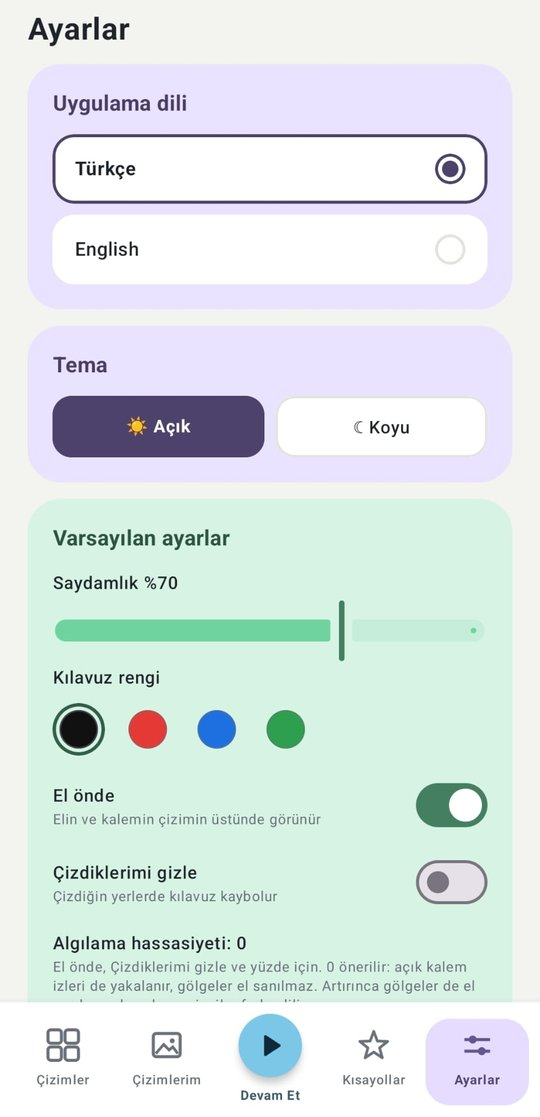
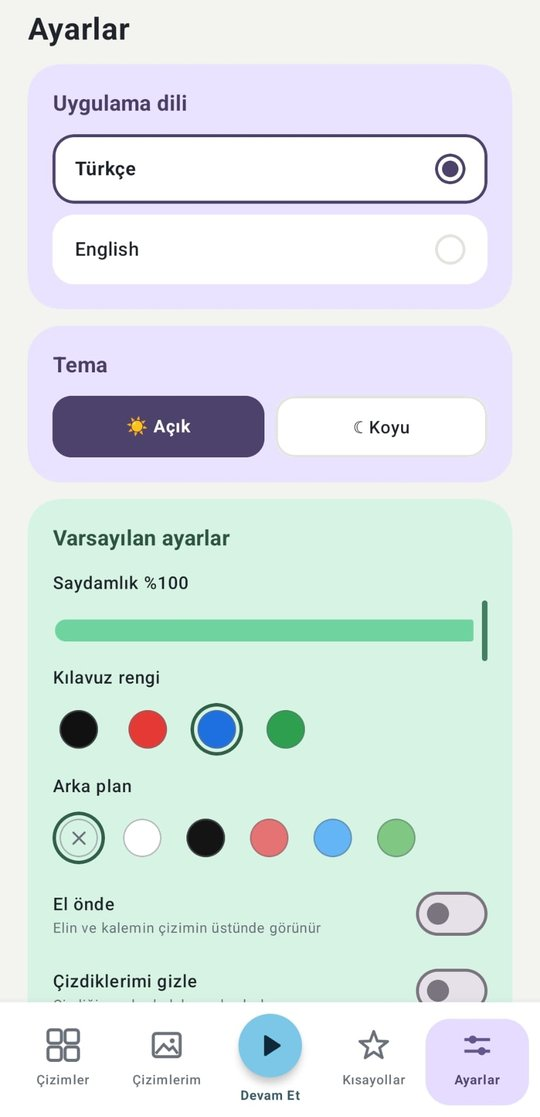
İlk Çizgi 1.0

diff --git a/README.md b/README.md
@@ -19,48 +19,71 @@ Telefonunu kâğıdın üstüne sabitle, ekrandaki kılavuzu takip ederek çiz.
 
 ---
 
+## Hangi sorunu çözüyor?
+
+Çizime yeni başlayan biri bir resme bakarak çizdiğinde oranlar kayar: baş büyük, kollar kısa, yüz yamuk çıkar. Işık masası, ızgara ya da karbon kâğıt gibi yöntemler ek malzeme ister ve çizmeyi öğretmez. Telefondaki benzer uygulamalarda ise kılavuz elin üstünde kalır, kendi çizdiğin çizgilerle karışır ve gelişmiş özellikler ücretlidir.
+
+İlk Çizgi'de telefon kâğıdın üstünde sabit durur, seçilen çizim kamera görüntüsünün üstünde yarı saydam görünür. Ekrana bakıp çizgilerin üstünden geçersin; uygulama elini çizimin önüne alır, çizdiğin yerleri gizler ve ne kadarını bitirdiğini gösterir.
+
 ## Ekran görüntüleri
 
 <table>
   <tr>
-    <td align="center"><img src="docs/ekran-goruntuleri/cizim-ekrani.jpg" width="200" alt="Çizim ekranı"><br><sub><b>Çizim ekranı</b><br>Kamera üstünde kılavuz</sub></td>
-    <td align="center"><img src="docs/ekran-goruntuleri/cizmeyi-ogren.jpg" width="200" alt="Çizmeyi öğren"><br><sub><b>Çizmeyi öğren</b><br>18 adım adım ders</sub></td>
-    <td align="center"><img src="docs/ekran-goruntuleri/arama.jpg" width="200" alt="Arama ve filtre"><br><sub><b>Arama ve filtre</b><br>Kategoriye göre süz</sub></td>
-    <td align="center"><img src="docs/ekran-goruntuleri/kisayollar.jpg" width="200" alt="Kısayollar"><br><sub><b>Kısayollar</b><br>Son açılanlar, favoriler</sub></td>
+    <td align="center"><img src="docs/ekran-goruntuleri/cizim-ekrani.jpg" width="200" alt="Çizim ekranı"><br><sub><b>Çizim ekranı</b><br>Kamera üstünde kılavuz ve araçlar</sub></td>
+    <td align="center"><img src="docs/ekran-goruntuleri/cizmeyi-ogren.jpg" width="200" alt="Çizmeyi öğren"><br><sub><b>Çizmeyi öğren</b><br>Adım adım dersler</sub></td>
+    <td align="center"><img src="docs/ekran-goruntuleri/onizle.jpg" width="200" alt="Önizle"><br><sub><b>Önizle</b><br>Kamerasız; kaydır, büyüt, döndür</sub></td>
+    <td align="center"><img src="docs/ekran-goruntuleri/kategoriler.jpg" width="200" alt="Kategoriler"><br><sub><b>Kategoriler</b><br>Kolaydan zora çizimler</sub></td>
   </tr>
   <tr>
     <td align="center"><img src="docs/ekran-goruntuleri/fotograftan-ciz.jpg" width="200" alt="Fotoğraftan çiz"><br><sub><b>Fotoğraftan çiz</b><br>Galeriden ya da kamerayla</sub></td>
     <td align="center"><img src="docs/ekran-goruntuleri/cizimlerim.jpg" width="200" alt="Çizimlerim"><br><sub><b>Çizimlerim</b><br>Video ve fotoğraflar</sub></td>
-    <td align="center"><img src="docs/ekran-goruntuleri/ayarlar.jpg" width="200" alt="Ayarlar"><br><sub><b>Ayarlar</b><br>Dil ve tema</sub></td>
-    <td align="center"><img src="docs/ekran-goruntuleri/varsayilan-ayarlar.jpg" width="200" alt="Varsayılan ayarlar"><br><sub><b>Varsayılan ayarlar</b><br>Her çizim böyle açılır</sub></td>
+    <td align="center"><img src="docs/ekran-goruntuleri/nasil-kullanilir.jpg" width="200" alt="Nasıl kullanılır"><br><sub><b>Nasıl kullanılır</b><br>6 adımlı rehber</sub></td>
+    <td align="center"><img src="docs/ekran-goruntuleri/ayarlar.jpg" width="200" alt="Ayarlar"><br><sub><b>Ayarlar</b><br>Dil, tema, varsayılanlar</sub></td>
   </tr>
 </table>
 
-## Nasıl çalışır?
+## Uygulamayla çizildi
 
-1. **Bir çizim seç.** Kategorilerden, adım adım derslerden ya da kendi fotoğrafından.
+<table>
+  <tr>
+    <td align="center" rowspan="2"><img src="docs/ekran-goruntuleri/hizlandirilmis-video.gif" width="240" alt="Uygulamanın kaydettiği 29× hızlandırılmış video"><br><sub><b>Hızlandırılmış video (29×)</b><br>Yaklaşık 10 dakikalık çizim, 20 saniye</sub></td>
+    <td align="center"><img src="docs/ekran-goruntuleri/cizim-antik-savasci.jpg" width="180" alt="Antik savaşçı"><br><sub>Antik savaşçı</sub></td>
+    <td align="center"><img src="docs/ekran-goruntuleri/cizim-ejderha.jpg" width="180" alt="Ejderha"><br><sub>Ejderha</sub></td>
+  </tr>
+  <tr>
+    <td align="center"><img src="docs/ekran-goruntuleri/cizim-okcu.jpg" width="180" alt="Okçu"><br><sub>Okçu</sub></td>
+    <td align="center"><img src="docs/ekran-goruntuleri/cizim-iskelet-savasci.jpg" width="180" alt="İskelet savaşçı"><br><sub>İskelet savaşçı</sub></td>
+  </tr>
+</table>
+
+Hepsi kâğıda, kalemle, İlk Çizgi'nin kılavuzu takip edilerek çizildi.
+
+## Nasıl kullanılır?
+
+1. **Bir çizim seç.** Kategorilerden, adım adım derslerden ya da kendi fotoğrafından. İstersen önce kamerayı açmadan **Önizle**.
 2. **Telefonu sabitle.** Kâğıdın 30–40 cm üstünde bir bardağa, kitaplara ya da bir standa yasla.
-3. **Hizala ve kilitle.** Kamera görüntüsünün üstündeki çizimi konum ve boyut araçlarıyla kâğıda oturt, sonra kilitle.
-4. **Ekrana bakarak çiz.** Kalemin ve elin çizimin önünde görünür, çizdiğin yerler kaybolur, ne kadarını bitirdiğini yüzde olarak görürsün.
+3. **Hizala ve kilitle.** Kamera görüntüsünün üstündeki çizimi konum ve boyut araçlarıyla kâğıda oturt, sonra üstteki kilide bas.
+4. **Ekrana bakarak çiz.** Elin ve kalemin çizimin önünde görünür, çizdiğin yerler kaybolur, ne kadarını bitirdiğini yüzde olarak görürsün.
 
 ## Özellikler
 
 ### Çizim ekranı
-- **Kamera üstünde kılavuz:** çizim, kamera görüntüsünün üstünde yarı saydam durur; telefon sabit olduğu için kâğıttan kaymaz.
-- **El önde:** elin ve kalemin çizimin üstünde görünür.
+- **Kamera üstünde kılavuz:** çizim, kamera görüntüsünün üstünde yarı saydam durur; telefon sabit olduğu için kâğıttan kaymaz. AR desteği gerekmez.
+- **El önde:** elin ve kalemin çizimin önünde görünür; kılavuz elinin üstüne binmez.
 - **Çizdiklerimi gizle:** kalemle geçtiğin yerlerde kılavuz kaybolur; kalan iş bir bakışta görünür.
-- **İlerleme yüzdesi:** kilitliyken kâğıttaki kalem izleri sayılır; yüzde 5 saniyede bir baştan hesaplanır, telefon kayarsa ya da gölge düşerse yanlış sayım kendiliğinden düzelir.
-- **Kilit (ekranın üstünde):** konumu sabitler; kameranın odağını, ışığını ve renk dengesini de kilitler.
+- **İlerleme yüzdesi:** kilitliyken kâğıttaki kalem izleri sayılır; yüzde 5 saniyede bir yeniden hesaplanır, telefon kayarsa ya da gölge düşerse yanlış sayım kendiliğinden düşer.
+- **Kilit (ekranın üstünde):** çizimin yerini sabitler; kameranın odağını, ışığını ve renk dengesini de kilitler.
 - **Sade görünüm:** kilidin yanındaki göz düğmesi ekrandaki her şeyi gizler; çizerken sadece çizim, kilit ve bu düğme kalır.
-- **Araçlar:** konum (milim milim kaydırma, yarım derece döndürme), boyut, saydamlık, kılavuz rengi, **arka plan** (çizimi beyaz, siyah, kırmızı, mavi ya da yeşil düz zeminde gösterir; resme bakarak çizmek için), aynalama, ızgara, yanıp sönen kılavuz, algılama hassasiyeti.
+- **Araçlar:** konum (milim milim kaydırma, yarım derece döndürme), boyut, saydamlık, kılavuz rengi, **arka plan** (çizimi beyaz, siyah, kırmızı, mavi ya da yeşil düz zeminde gösterir), aynalama, ızgara, yanıp sönen kılavuz, **yansıtmayı gizle** ve **algılama hassasiyeti** (açık kalem izlerini sayar ya da gölgeleri el kabul eder).
 - **Üç kademeli alt araç çubuğu:** gizli, yarı açık ya da tam açık; yukarı çekince tam açılır.
-- **Hızlandırılmış video** ve **kâğıdın fotoğrafı:** çizim sürecin galeriye ve "Çizimlerim"e kaydedilir. Videolar uygulamanın kendi oynatıcısında, istenen hızda (0,25×–2×) izlenir.
+- **Hızlandırılmış video** ve **kâğıdın fotoğrafı:** kareler ekrandan değil kameradan alınır, bu yüzden videoda kılavuz görünmez. Hız 4×, 7×, 14× ya da 29× seçilir; videolar galeriye ve "Çizimlerim"e kaydedilir, uygulamanın kendi oynatıcısında istenen hızda (0,25×–2×) izlenir.
 - **Devam Et:** son çizimi aynı yer, boyut ve ayarlarla tek dokunuşla yeniden açar.
 - **Son açtıkların:** Kısayollar'daki son 12 çizimin her biri en son bıraktığın yer, boyut ve ayarlarla açılır.
 
 ### Çizmeyi öğren
-- Küp, silindir, koni, küre, piramit, el, göz, burun, dudak ve yüz için **18 adım adım ders.**
-- Her adım öncekinin tam üstüne oturur; çizdiklerinin üstüne yeni çizgiler eklenir.
+- Basit şekillerden el, göz, burun, dudak, yüz ve portreye uzanan **adım adım dersler.**
+- Her adım öncekinin tam üstüne oturur; "Sonraki adım"a basınca yeni çizgiler çizdiklerinin üstüne gelir.
+- Uygulama kaldığın adımı hatırlar.
 
 ### Kendi fotoğrafın
 - Galeriden seç ya da çek; telefon onu **ana hatlarıyla, net ve koyu çizgilere çevirir** (ayrıntı ve çizgi kalınlığı ayarlanabilir). Kenar yönünü takip ettiği için çizgiler kesik kesik değil, akıcı çıkar.
@@ -70,21 +93,33 @@ Telefonunu kâğıdın üstüne sabitle, ekrandaki kılavuzu takip ederek çiz.
 ### Çizimler
 **Kolay çizimler · İnsan · Hayvanlar · Bitkiler · Manzara · Fantastik · Karakterler · Karanlık**
 
-Türkçe harflere duyarsız arama ("goz" yazınca "Göz" bulunur), kategori filtresi, favoriler ve son açılanlar.
+Türkçe harflere duyarsız arama ("goz" yazınca "Göz" bulunur), kategori filtresi, favoriler ve son açılanlar. Kütüphane büyümeye açık: yeni bir çizim eklemek için klasöre resmi koymak yeter.
 
-Her çizimin altında iki düğme var: **Çiz** kamerayı açıp çizime başlatır, **Önizle** kamera açmadan çizime bakmanı sağlar. Önizlemede çizim parmakla kaydırılır, iki parmakla büyütülür ve döndürülür; boyut, aynalama, ızgara, kılavuz rengi ve arka plan denenir, göz düğmesiyle ayarlar gizlenip kâğıt büyütülür. "Çizmeye başla" çizimi aynı ayarlarla açar.
+Her çizimin altında iki düğme var: **Çiz** kamerayı açıp çizime başlatır, **Önizle** kamera açmadan çizime bakmanı sağlar. Önizlemede çizim parmakla kaydırılır, iki parmakla büyütülür ve döndürülür; boyut, aynalama, ızgara, kılavuz rengi ve arka plan denenir. "Çizmeye başla" çizimi aynı ayarlarla açar.
 
 ### Uygulama
 - Türkçe ve İngilizce.
 - Açık ve koyu tema (koyu temada bile çizimler beyaz kâğıt üstünde siyah görünür).
-- İlk açılışta kısa tanıtım ve uygulama içinde "Nasıl kullanılır" rehberi.
+- İlk açılışta kısa tanıtım ve her an açılabilen 6 adımlı "Nasıl kullanılır" rehberi.
+
+## Nasıl çalışıyor?
+
+Her kamera karesinde şunlar olur:
+
+1. **Kamera karesi:** CameraX görüntüyü kare kare verir; ekranın değil, kameranın görüntüsü kullanılır.
+2. **Kâğıdı tanı:** görüntü hücrelere bölünür, kâğıdın parlaklığı her karede yeniden ölçülür; ışık değişse de uyum sağlanır.
+3. **Eli ve kalemi bul:** ten rengine yakın büyük lekeler el, çevresindeki kâğıttan belirgin koyu ve renksiz izler kalem çizgisi sayılır.
+4. **Maske üret:** saniyede yaklaşık 15 kez; el ve çizilmiş yerler kılavuzdan çıkarılır, titremesin diye yumuşatılır.
+5. **Çiz ve say:** kılavuz maskeyle ekrana çizilir; kılavuzun kapladığı hücrelerde kalem izi aranır, yüzde hesaplanır.
+
+Fotoğraftan çizgi çıkarma da kendi algoritmamızdır (akış tabanlı DoG): doku ve gürültü kenar koruyan bir süzgeçle düzlenir, iki bulanıklığın farkıyla kenarlar bulunur, kenar yönünde kesik çizgiler birleştirilir, kısa parazitler atılır. Hesap telefonun çekirdeklerine bölünür.
 
 ## Teknik
 
 | | |
 |---|---|
 | Dil | Kotlin 2.4 |
-| Arayüz | Jetpack Compose, Material 3 |
+| Arayüz | Jetpack Compose, Material 3 (tek Activity) |
 | Kamera | CameraX 1.6 (Camera2 ile odak/ışık kilidi) |
 | Görüntü işleme | Kendi algoritmamız: YUV kareden el ve kalem izi algılama; fotoğraftan çizgi çıkarma (kenar koruyan süzgeç + akış tabanlı DoG + histerezis) |
 | Video | MediaCodec (H.264) + MediaMuxer |
@@ -104,16 +139,15 @@ app/src/main/
 │  ├─ Vision.kt            el / çizgi algılama, ilerleme hesabı
 │  ├─ PhotoSketch.kt       fotoğraftan çizgi çizimi
 │  ├─ Timelapse.kt         hızlandırılmış video
-│  ├─ Works.kt             Çizimlerim
+│  ├─ Works.kt             Çizimlerim ve video oynatıcı
 │  ├─ HomeScreen.kt        ana sayfa ve kategoriler
+│  ├─ Sections.kt          dersler ve Kısayollar
 │  ├─ AppUi.kt             renkler, dil, ayarlar, katalog, dersler
-│  └─ …                    arama, ayarlar, tanıtım, simgeler
+│  └─ …                    arama, ayarlar, tanıtım, rehber, simgeler
 └─ assets/drawing/
    ├─ kategoriler.json     kategori ve çizim adları, dersler
    └─ <kategori klasörleri>
 ```
-
-
 
 ## Geliştiriciler
 Hamza Bilici - Emel Ece Gizli
